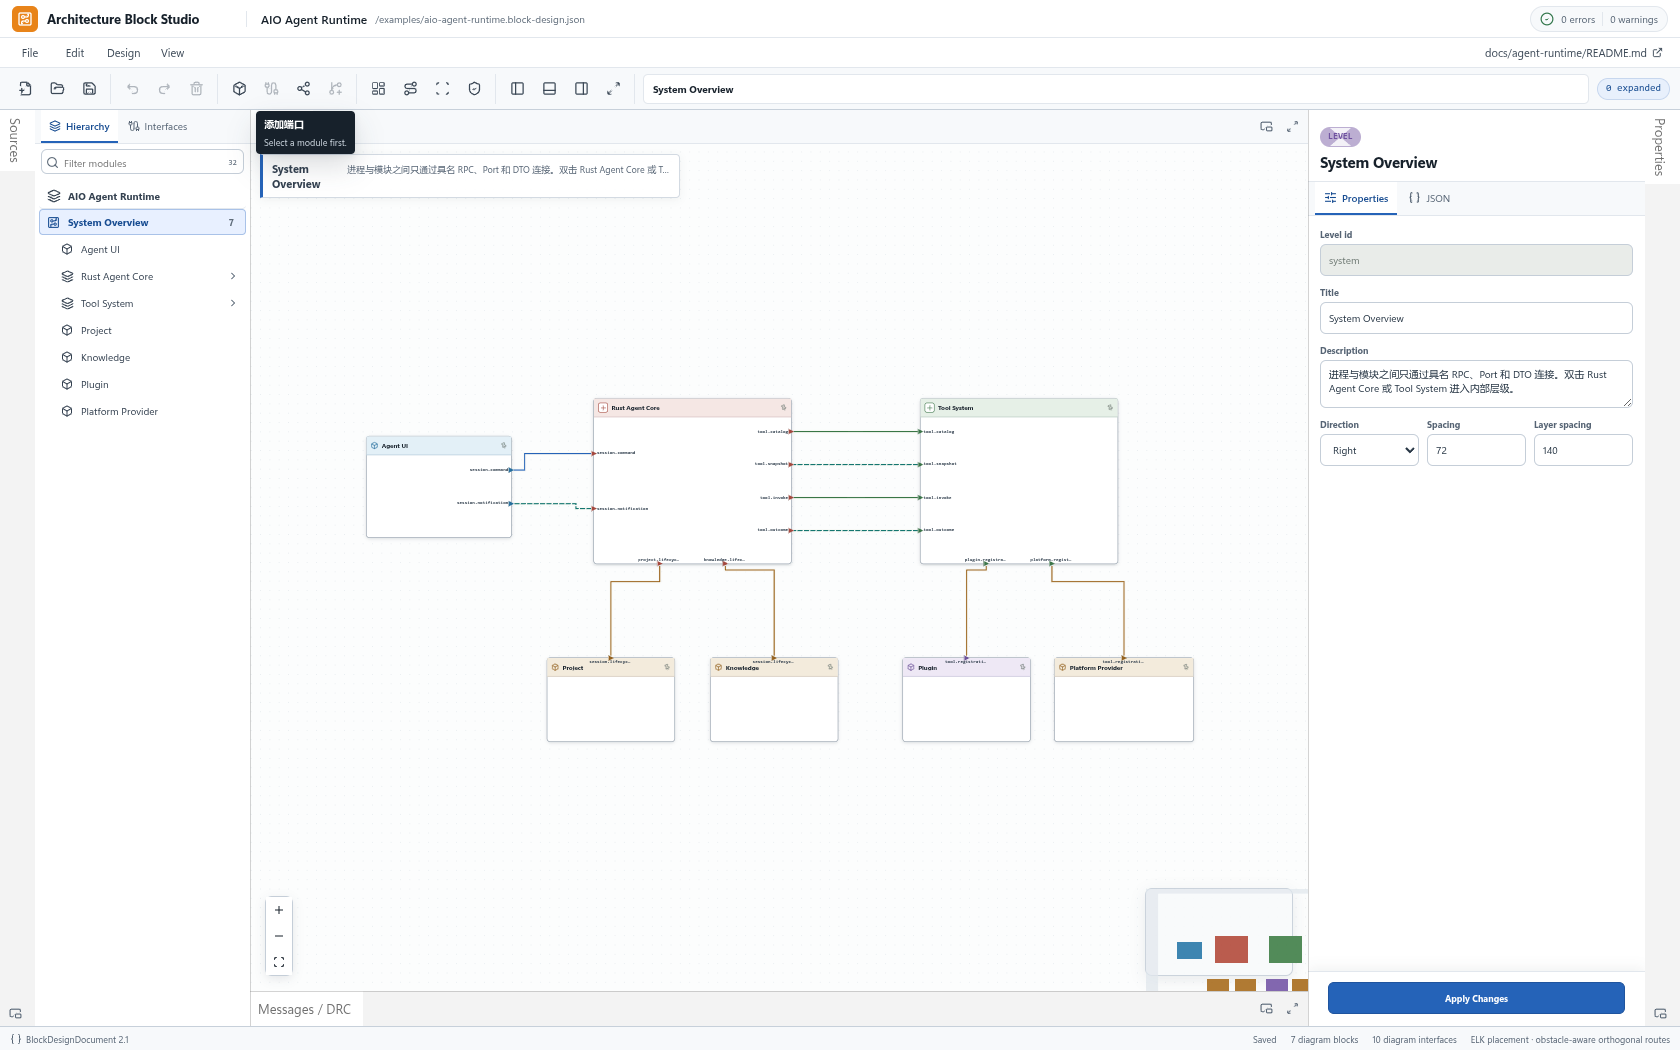
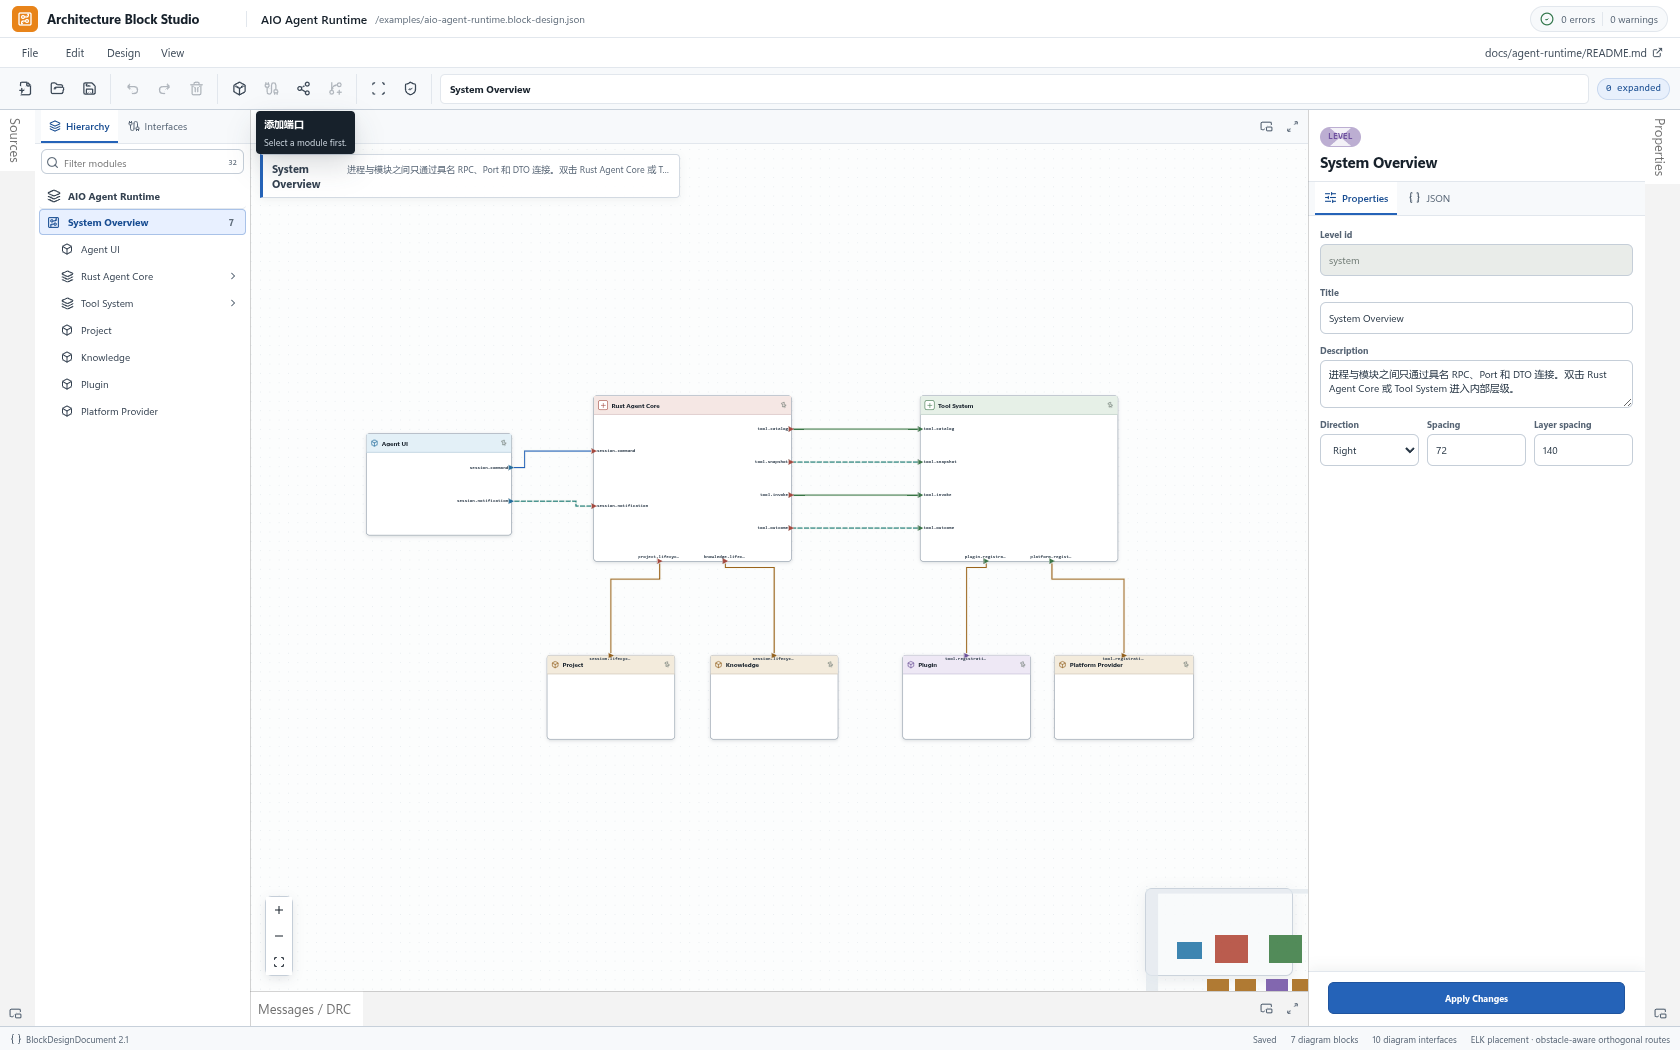
feat: focus the persistent toolbar

diff --git a/tests/studio.spec.ts b/tests/studio.spec.ts
@@ -187,6 +187,17 @@ function toolbarButton(page: Page, name: string): Locator {
     .getByRole("button", { name, exact: true });
 }
 
+async function runMenuCommand(
+  page: Page,
+  menuName: "Design" | "View",
+  commandName: string | RegExp,
+): Promise<void> {
+  await page.getByRole("button", { name: menuName, exact: true }).click();
+  await page.getByRole("menu", { name: menuName })
+    .getByRole("menuitem", { name: commandName, exact: typeof commandName === "string" })
+    .click();
+}
+
 async function clickWithPointer(page: Page, locator: Locator): Promise<void> {
   const box = await locator.boundingBox();
   expect(box).not.toBeNull();
@@ -755,7 +766,7 @@ test("keeps the compact desktop workbench operable without panel or route obstru
   await waitForEditorIdle(page);
   await expect(edge.locator('[data-routing-mode="manual"]')).toBeVisible();
 
-  await toolbarButton(page, "Messages").click({ force: true });
+  await runMenuCommand(page, "View", "Toggle Messages");
   await expect(page.locator(".bd-messages")).toBeVisible();
   const geometry = await page.evaluate(() => {
     const box = (selector: string) => {
@@ -890,6 +901,76 @@ test("reveals one unobtrusive tooltip path for toolbar and canvas controls", asy
     reduced: matchMedia("(prefers-reduced-motion: reduce)").matches,
     animationSeconds: Number.parseFloat(getComputedStyle(element).animationDuration),
   }))).toEqual({ reduced: true, animationSeconds: 0.00001 });
+});
+
+test("keeps only direct-workflow commands in the persistent toolbar", async ({ page }) => {
+  const toolbar = page.getByRole("toolbar", { name: "Architecture design tools" });
+  await expect(toolbar.getByRole("button")).toHaveCount(12);
+  await expect(toolbar.getByRole("group", { name: "File" }).getByRole("button")).toHaveCount(3);
+  await expect(toolbar.getByRole("group", { name: "History and selection" }).getByRole("button")).toHaveCount(3);
+  await expect(toolbar.getByRole("group", { name: "Create" }).getByRole("button")).toHaveCount(4);
+  await expect(toolbar.getByRole("group", { name: "Canvas and review" }).getByRole("button")).toHaveCount(2);
+
+  for (const title of ["重新生成布局", "仅优化布线", "Sources", "Messages", "Properties", "最大化或还原画布"]) {
+    await expect(toolbar.getByRole("button", { name: title, exact: true })).toHaveCount(0);
+  }
+
+  await page.getByRole("button", { name: "Design", exact: true }).click();
+  const designMenu = page.getByRole("menu", { name: "Design" });
+  await expect(designMenu.getByRole("menuitem", { name: "Regenerate Layout", exact: true })).toBeVisible();
+  await expect(designMenu.getByRole("menuitem", { name: "Optimize Routing", exact: true })).toBeVisible();
+  await page.keyboard.press("Escape");
+
+  await page.getByRole("button", { name: "View", exact: true }).click();
+  const viewMenu = page.getByRole("menu", { name: "View" });
+  for (const label of ["Toggle Sources", "Toggle Messages", "Toggle Properties", "Maximize Diagram"]) {
+    await expect(viewMenu.getByRole("menuitem", { name: label, exact: true })).toBeVisible();
+  }
+  await page.keyboard.press("Escape");
+
+  await page.keyboard.press("ControlOrMeta+K");
+  const palette = page.getByRole("dialog", { name: "Command Palette" });
+  for (const label of [
+    /^Regenerate Layout/,
+    /^Optimize Routing/,
+    /^Toggle Sources/,
+    /^Toggle Messages/,
+    /^Toggle Properties/,
+    /^Maximize Diagram/,
+  ]) {
+    await expect(palette.getByRole("option", { name: label })).toBeVisible();
+  }
+  await page.keyboard.press("Escape");
+
+  const wide = await page.evaluate(() => {
+    const buttons = [...document.querySelectorAll<HTMLElement>(".bd-toolbar button")];
+    const breadcrumb = document.querySelector<HTMLElement>(".bd-breadcrumbs");
+    if (!buttons.length || !breadcrumb) throw new Error("Toolbar geometry is unavailable.");
+    const first = buttons[0].getBoundingClientRect();
+    const last = buttons.at(-1)!.getBoundingClientRect();
+    const trail = breadcrumb.getBoundingClientRect();
+    return {
+      commandWidth: last.right - first.left,
+      breadcrumbWidth: trail.width,
+      overflow: [
+        document.documentElement.scrollWidth - window.innerWidth,
+        document.documentElement.scrollHeight - window.innerHeight,
+      ],
+    };
+  });
+  expect(wide.commandWidth).toBeLessThan(430);
+  expect(wide.breadcrumbWidth).toBeGreaterThan(1100);
+  expect(wide.overflow).toEqual([0, 0]);
+
+  await page.setViewportSize({ width: 1280, height: 720 });
+  await expect(toolbar).toBeVisible();
+  expect(await page.locator(".bd-breadcrumbs").evaluate((element) => element.getBoundingClientRect().width))
+    .toBeGreaterThan(730);
+  await expect(page.locator(".react-flow__edge-text")).toHaveCount(0);
+  if (process.env.CAPTURE_FOCUSED_TOOLBAR === "1") {
+    await page.locator(".bd-react-flow").click({ position: { x: 40, y: 40 } });
+    await captureStudioScreenshot(page, "docs/screenshots/focused-toolbar.png");
+  }
 });
 
 test("searches and runs the unified command palette without losing workflow focus", async ({ page }) => {
@@ -1113,7 +1194,7 @@ test("meets automated WCAG rules in the default workbench and open dialog", asyn
     expect(workbench.violations, selector).toEqual([]);
   }
   expect(await textContrastIssues(page, ".bd-studio")).toEqual([]);
-  await toolbarButton(page, "Messages").click({ force: true });
+  await runMenuCommand(page, "View", "Toggle Messages");
   await expect(page.locator(".bd-messages")).toBeVisible();
   const messages = await accessibilityResults(page, ".bd-messages");
   expect(messages.violations, ".bd-messages").toEqual([]);
@@ -1926,16 +2007,16 @@ test("resizes, collapses, maximizes, floats and resets dock panels", async ({ pa
   await page.mouse.up();
   expect((await sources.boundingBox())!.width).toBeGreaterThan(initialSources!.width + 50);
 
-  await toolbarButton(page, "Sources").click({ force: true });
+  await runMenuCommand(page, "View", "Toggle Sources");
   expect((await sources.boundingBox())!.width).toBeLessThan(60);
-  await toolbarButton(page, "Sources").click({ force: true });
+  await runMenuCommand(page, "View", "Toggle Sources");
   expect((await sources.boundingBox())!.width).toBeGreaterThan(250);
 
   const diagramBefore = await page.getByRole("region", { name: "Diagram" }).boundingBox();
-  await toolbarButton(page, "最大化或还原画布").click({ force: true });
+  await runMenuCommand(page, "View", "Maximize Diagram");
   const diagramMaximized = await page.getByRole("region", { name: "Diagram" }).boundingBox();
   expect(diagramMaximized!.width).toBeGreaterThan(diagramBefore!.width + 300);
-  await toolbarButton(page, "最大化或还原画布").click({ force: true });
+  await runMenuCommand(page, "View", "Restore Diagram");
 
   await page.getByRole("button", { name: "Float Properties" }).click({ force: true });
   await expect(
@@ -1957,10 +2038,10 @@ test("optimizes routes without moving blocks and regenerates placement separatel
   const project = flowNode(page, "system::project");
   const before = await transformOf(project);
 
-  await toolbarButton(page, "仅优化布线").evaluate((button: HTMLButtonElement) => button.click());
+  await runMenuCommand(page, "Design", "Optimize Routing");
   expect(await transformOf(project)).toBe(before);
 
-  await toolbarButton(page, "重新生成布局").evaluate((button: HTMLButtonElement) => button.click());
+  await runMenuCommand(page, "Design", "Regenerate Layout");
   await expect.poll(() => transformOf(project), { timeout: 30_000 }).not.toBe(before);
   await waitForLayout(page);
 });
@@ -2532,14 +2613,14 @@ test("authors, connects, nests, undoes, saves, and reloads a local module design
   });
   await expect(page.locator(".bd-interface-underlay")).toHaveCount(2);
   if (process.env.CAPTURE_EDITOR_PROOF === "1") {
-    await toolbarButton(page, "Sources").click({ force: true });
-    await toolbarButton(page, "Properties").click({ force: true });
+    await runMenuCommand(page, "View", "Toggle Sources");
+    await runMenuCommand(page, "View", "Toggle Properties");
     await page.waitForTimeout(400);
     await toolbarButton(page, "适应窗口").click({ force: true });
     await page.waitForTimeout(400);
     await captureStudioScreenshot(page, "docs/screenshots/editor-routing-validation.png");
-    await toolbarButton(page, "Sources").click({ force: true });
-    await toolbarButton(page, "Properties").click({ force: true });
+    await runMenuCommand(page, "View", "Toggle Sources");
+    await runMenuCommand(page, "View", "Toggle Properties");
     await page.waitForTimeout(400);
   }
 

diff --git a/src/components/StudioToolbar.tsx b/src/components/StudioToolbar.tsx
@@ -57,8 +57,7 @@ export function StudioToolbar({
       <CommandGroup label="File" commands={commands} ids={["newDesign", "openDesign", "save"]} />
       <CommandGroup label="History and selection" commands={commands} ids={["undo", "redo", "deleteSelection"]} />
       <CommandGroup label="Create" commands={commands} ids={["addBlock", "addPort", "addConnection", "addChildDesign"]} />
-      <CommandGroup label="Layout and validation" commands={commands} ids={["regenerateLayout", "optimizeRouting", "fitDesign", "validateDesign"]} />
-      <CommandGroup label="Workspace panels" commands={commands} ids={["toggleSources", "toggleMessages", "toggleProperties", "maximizeDiagram"]} />
+      <CommandGroup label="Canvas and review" commands={commands} ids={["fitDesign", "validateDesign"]} />
       <nav className="bd-breadcrumbs" aria-label="Expanded hierarchy">
         <strong>{activeLevelTitle}</strong>
         {expandedTitles.map((title) => <span key={title}><b>/</b>{title}</span>)}

diff --git a/docs/ARCHITECTURE.md b/docs/ARCHITECTURE.md
@@ -50,7 +50,7 @@ Menu / Toolbar / Keyboard / Canvas / Inspector
 
 工作台采用稳定的专业画布骨架：文档标题和校验摘要位于顶层，菜单负责完整命令发现，分组工具栏承载高频动作；Sources、Canvas、Inspector 构成主要横向工作区，Messages / DRC 与状态栏提供按需反馈。Canvas 始终是视觉主面，左右面板是上下文，只有选择、错误、dirty 和主操作使用强调色。改变面板显隐、Dock 布局或视觉样式不会改变设计事实。
 
-`src/styles.css` 的 `:root` 是颜色、边界、控件高度、圆角、阴影、层级和动效时长的唯一视觉常量 Owner。组件只通过自身语义 class 表达“这是菜单、节点、属性面板或状态”，不得复制同一 surface、border、selection、z-index 或 control 尺寸；React Flow 的网格与 MiniMap 遮罩同样消费该 token 层。`StudioToolbar` 只依据 `StudioCommands` 投影命令，并用具名 `role="group"` 表达视觉分组，不拥有命令状态。视觉 token 只被组件消费，不依赖组件，也不进入 JSON、历史、selection 或布局结果。
+`src/styles.css` 的 `:root` 是颜色、边界、控件高度、圆角、阴影、层级和动效时长的唯一视觉常量 Owner。组件只通过自身语义 class 表达“这是菜单、节点、属性面板或状态”，不得复制同一 surface、border、selection、z-index 或 control 尺寸；React Flow 的网格与 MiniMap 遮罩同样消费该 token 层。`StudioToolbar` 只依据 `StudioCommands` 投影命令，并用具名 `role="group"` 表达视觉分组，不拥有命令状态。它拥有常驻展示集合：File、History、Create 以及 Fit / Validate 表达启动、连续编辑、建模和审查直接工作流；低频全图布局与已有 Dock 上下文入口的面板动作仍由完整 Menu / Command Palette 投影。展示集合不进入命令合同，不能反向改变 execute 或 eligibility。视觉 token 只被组件消费，不依赖组件，也不进入 JSON、历史、selection 或布局结果。
 
 `Tooltip` 只拥有 pointer 延迟、focus 即时打开、Esc / pointer down 关闭和 reduced-motion 展示，是命令提示的瞬时 UI Owner。它的公开输入只有 `label`、可选 `shortcut` / `detail` 与 placement；Toolbar 直接传入 `StudioCommands` 已拥有的名称、快捷键和 `unavailableReason`，Canvas viewport controls 传入自身公开动作名。Tooltip 不计算 eligibility、不执行命令、不让禁用按钮获得新的激活路径，也不持久化打开状态。Toolbar 与 Canvas controls 不再保留并行的原生 `title`，Menu 已有可见禁用原因也不再重复 title；事件取消或组件卸载时，待显示计时器被清理，原操作保持不变。
 
@@ -58,7 +58,8 @@ Menu / Toolbar / Keyboard / Canvas / Inspector
 
 ```text
 BlockDesignDocument ─► model / editor / layout / routing ─► Studio ─► UI components
-StudioCommands ───────────────────────────► Menu / Toolbar / Keyboard / Command Palette
+StudioCommands ───────────────────────────► Menu / Keyboard / Command Palette（完整）
+              └───────────────────────────► Toolbar（12 个直接工作流投影）
 Canvas viewport actions ──────────────────────────────────► Canvas controls
 Menu / Toolbar / Canvas controls ── label / detail ───────► Tooltip
 :root visual tokens ──────────────────────────────────────► all UI components

diff --git a/README.md b/README.md
@@ -59,6 +59,8 @@ Architecture Block Studio 将这些问题变成可阅读、可编辑、可校验
 
 ![紧凑工作区中的接口审查与 DRC](docs/screenshots/compact-workbench.png)
 
+常驻工具栏只保留文件、撤销 / 重做、创建、适应窗口和校验等直接工作流；重新布局、布线优化与面板管理仍完整保留在菜单和命令面板中，减少图标噪声而不减少能力。
+
 在工作台任意位置按 **Ctrl/⌘ K** 即可打开命令面板。输入动作名、工具栏中文名称或快捷键就能筛选全部命令；方向键选择、Enter 执行、Esc 返回原位置。暂不可用的动作不会消失，面板会直接说明还缺少哪个前提，因此不必记住命令位于哪一层菜单。
 
 ![统一命令面板](docs/screenshots/command-palette.png)
